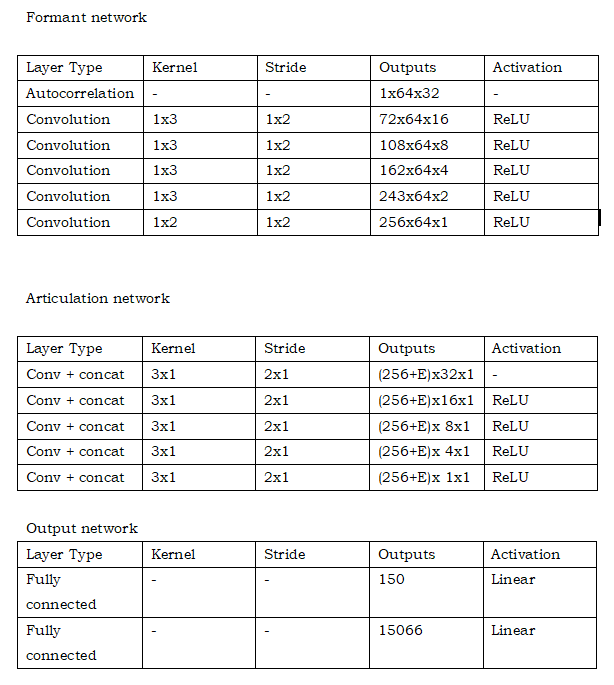
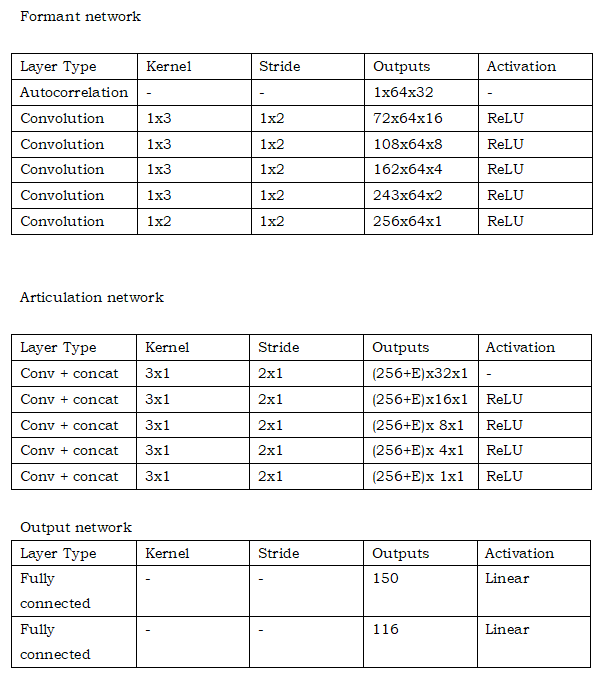
udpate readme

Changed region(s): [[0.0, 0.4324, 0.9851, 0.9882], [0.0, 0.0618, 0.9851, 0.3706], [0.0299, 0.0, 0.2388, 0.0309]]

diff --git a/README.md b/README.md
@@ -5,9 +5,8 @@
 ![ue](rsc/ue.png)
 
 
-A tensorflow implementation of Nvidia's paper "Audio-Driven Facial Animation by Joint End-to-End Learning of Pose and Emotion".
+We create a project that transforms audio to blendshape weights,and drives the digital human,xiaomei,in UE project.
 
-In the orginal paper above, the output is vextex , our version that we've changed it to the blendshapes' weights.
 
 ## Base Module
 ---
@@ -16,14 +15,16 @@ In the orginal paper above, the output is vextex , our version that we've change
 
 ![figure2](rsc/layers.png)
 
-We use the framework introduced in [Audio-Driven Facial Animation by Joint End-to-End Learning of Pose and Emotion] and the same loss functions,but used the blendshapes' weights instead of vertices.
+
+The framework we used contains three parts.In Formant network step,we perform fixed-function analysis of the input audio clip.In the articulation network,we concatenate an emotional state vector to the output of each convolution layer after the ReLU activation. The fully-connected layers at the end expand the 256+E abstract features to  blendshape weights .
+
 
 ## Usage
 ---
 ![pipeline](/rsc/pipeline.PNG)
 
 
-this pipeline show how we use FACEGOOD Audio2Face.
+this pipeline shows how we use FACEGOOD Audio2Face.
 
 
 
